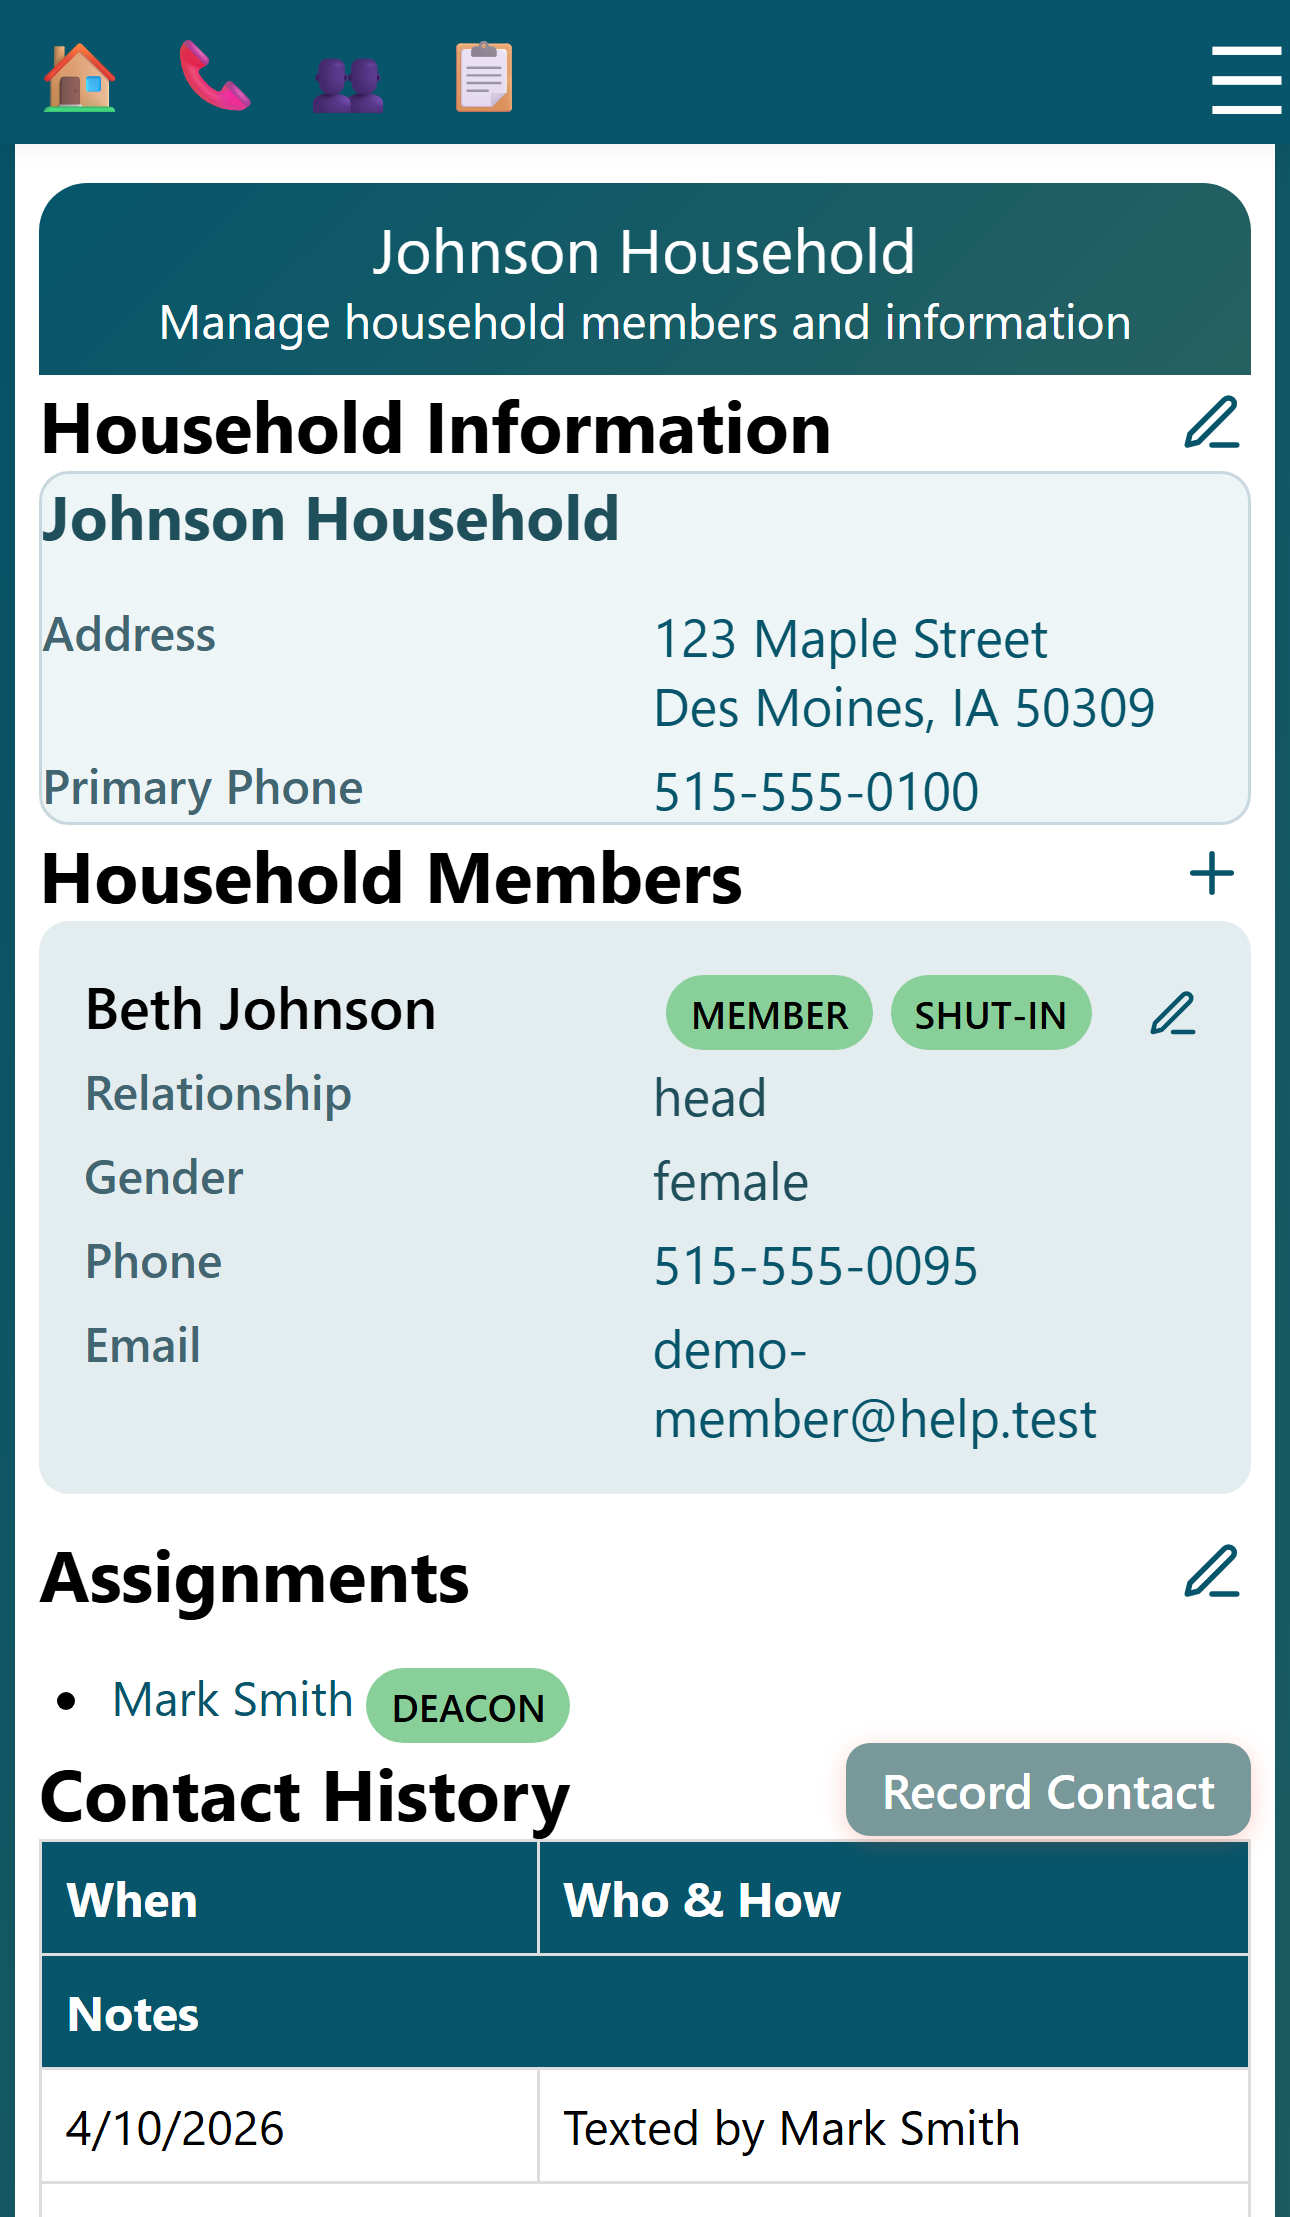
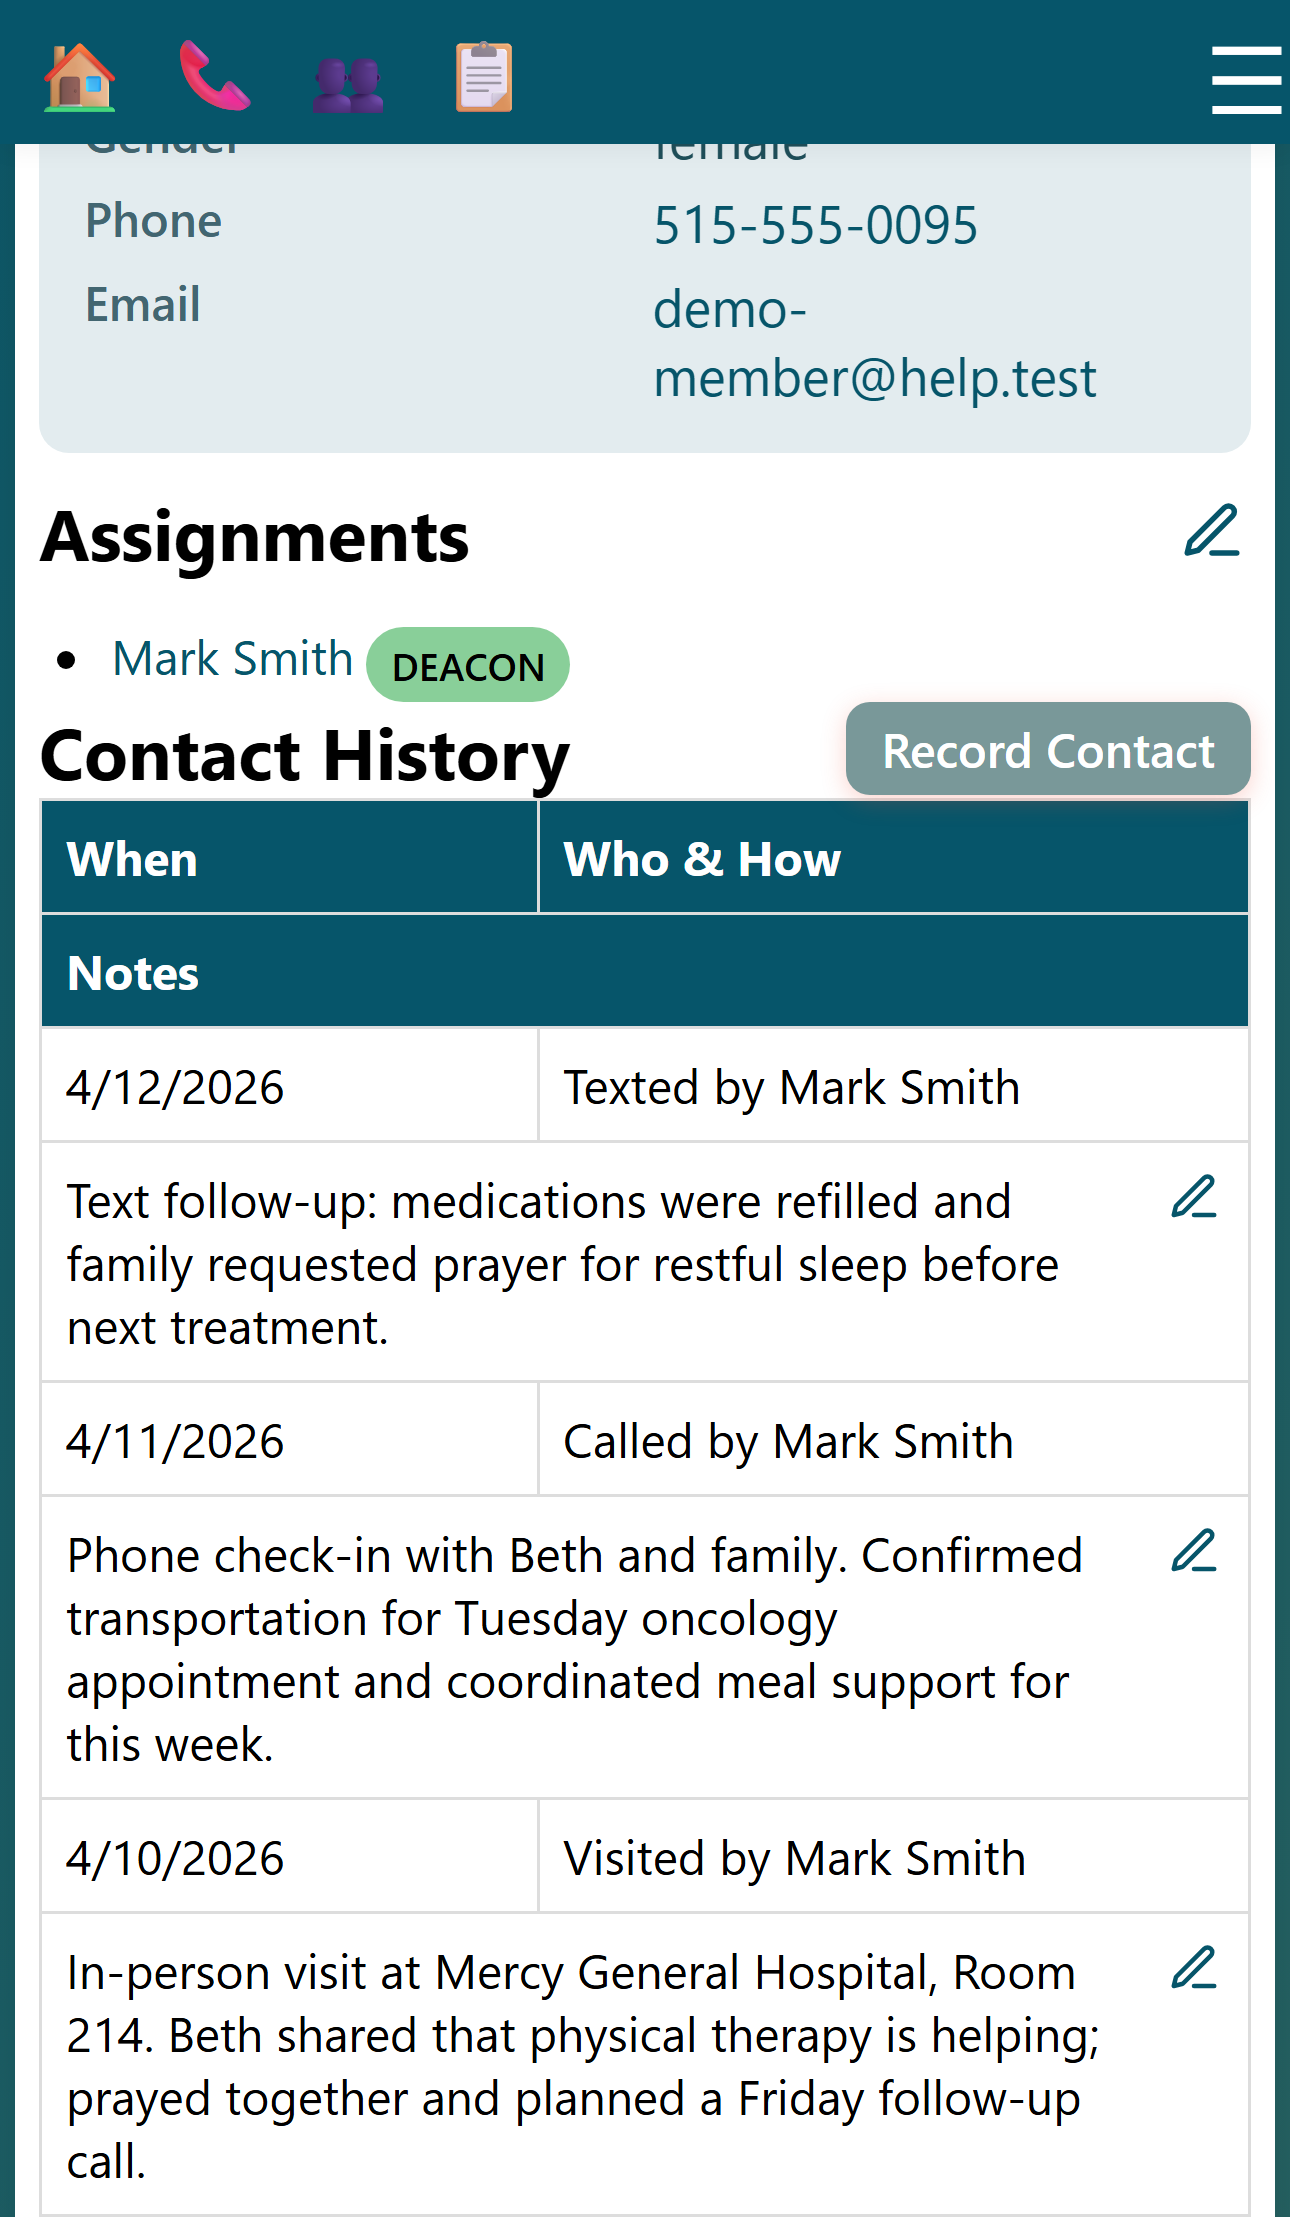
add edit contact help documentation

diff --git a/test/e2e/screenshots/household.spec.js b/test/e2e/screenshots/household.spec.js
@@ -61,7 +61,26 @@ test.describe('household screenshots', () => {
     await loginAsEmail(page, DEMO.deaconEmail);
     await page.goto(`/household.html?id=${ids.memberHHId}`);
     await page.waitForLoadState('networkidle');
+
+    const contactHistoryTarget = page.locator('.contacts-table').first();
+    await expect(contactHistoryTarget).toBeVisible();
+    await contactHistoryTarget.scrollIntoViewIfNeeded();
+
     await takeHelpScreenshot(page, 'household-contact-history.png');
+  });
+
+  test('capture edit contact button', async ({ page, request }) => {
+    const ids = await seedDemoData(request);
+    await loginAsEmail(page, DEMO.deaconEmail);
+    await page.goto(`/household.html?id=${ids.memberHHId}`);
+    await page.waitForLoadState('networkidle');
+
+    const editContactBtn = page.locator('.contact-edit-btn').first();
+    await expect(editContactBtn).toBeVisible();
+    await editContactBtn.scrollIntoViewIfNeeded();
+
+    await highlightElement(page, editContactBtn, 'orange');
+    await takeHelpScreenshot(page, 'household-edit-contact-button.png');
   });
 
   test('capture record contact button', async ({ page, request }) => {

diff --git a/site/help/CAPTURE_GUIDE.md b/site/help/CAPTURE_GUIDE.md
@@ -43,6 +43,7 @@ Do not finish capture work if any output category is non-empty (`missing-desktop
 | household-add-member-button.png | test/e2e/screenshots/household.spec.js | Household page add member CTA | Add member button |
 | household-assign-button.png | test/e2e/screenshots/household.spec.js | Household page assign CTA | Assign button |
 | household-contact-history.png | test/e2e/screenshots/household.spec.js | Household contact history | None |
+| household-edit-contact-button.png | test/e2e/screenshots/household.spec.js | Household contact history edit action | Edit Contact icon |
 | record-contact-button.png | test/e2e/screenshots/household.spec.js | Household page record contact CTA | Record Contact button |
 | record-contact-form.png | test/e2e/screenshots/record-contact.spec.js | Record contact form | Contact type + summary fields |
 | record-contact-contacted-by.png | test/e2e/screenshots/record-contact.spec.js | Record contact contacted-by list | Contacted-by section |

diff --git a/site/help/behaviors/edit-contact-form.md b/site/help/behaviors/edit-contact-form.md
@@ -1,0 +1,17 @@
+## Editing a Saved Contact
+
+You can edit an existing contact directly from the household **Contact History** section.
+
+1. Open the **Household** page.
+2. Scroll to **Contact History**.
+3. Find the contact entry you want to update.
+4. Click the **Edit Contact** icon in the top-right of that entry's notes row.
+
+![Edit Contact icon in contact history](../images/household-edit-contact-button.png)
+
+The **Record Contact** form opens in edit mode with the current details loaded.
+
+1. Update the date, type, summary, participants, or follow-up fields as needed.
+2. Click **Submit**.
+
+After saving, you return to the household page and the updated contact appears in Contact History.

diff --git a/site/help/behaviors/view-contact-history.md b/site/help/behaviors/view-contact-history.md
@@ -20,13 +20,4 @@ The contact history table shows:
 
 To add a new contact entry, click the **Record Contact** button in the Contact History section.
 
-### Editing an Existing Contact
-
-Each contact entry includes an **Edit Contact** icon in the top-right of the notes row.
-
-1. Find the contact entry you want to update.
-2. Click the **Edit Contact** icon.
-3. The **Record Contact** form opens in edit mode with the existing details loaded.
-4. Make your changes and submit.
-
-After saving, you return to the household page and see the updated contact history.
+After you submit a new contact, it appears in Contact History.
